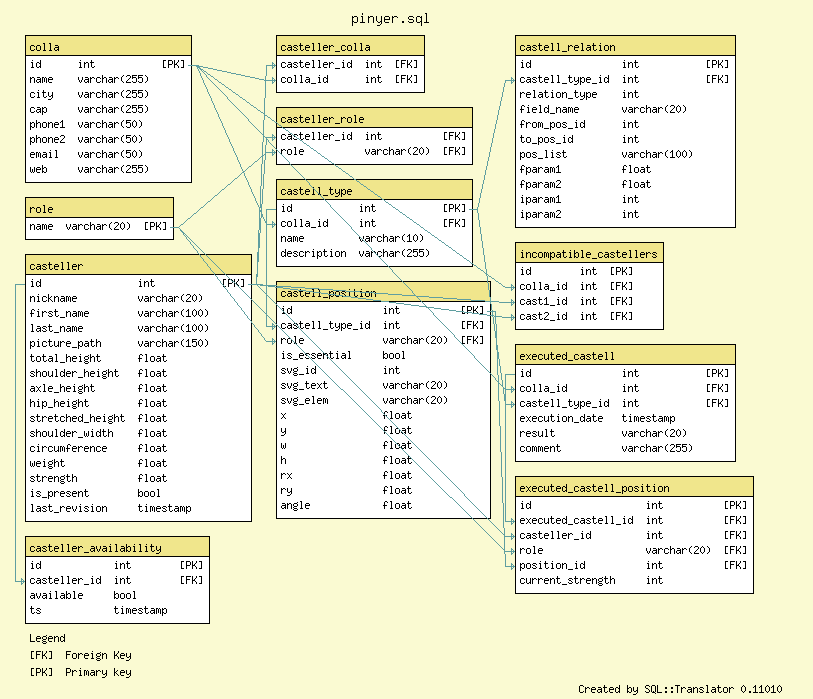
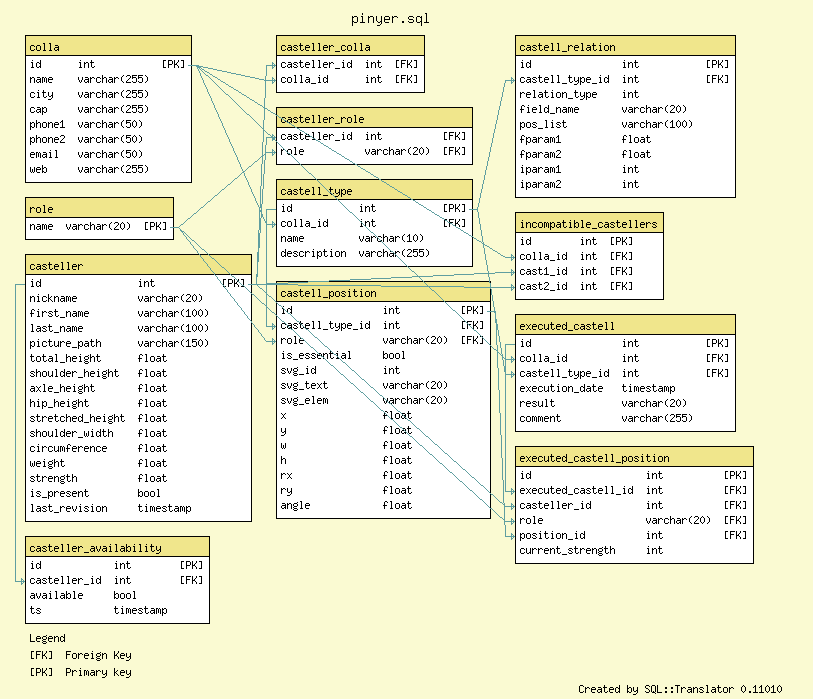
eliminated from_pos_id and to_pos_id

diff --git a/python/db_interaction.py b/python/db_interaction.py
@@ -14,10 +14,10 @@ def get_positions(db, castell_type_id):
     c.execute("""select p.id, role, role.name, is_essential, svg_id, svg_text, svg_elem, x, y, w, h, rx, ry, angle from castell_position p left join role on p.role=role.name where castell_type_id=%s""", (castell_type_id,))
     res = c.fetchall()
     for row in res:
-        ir0 = int(row[0])
         new_ans = dict(zip(('id', 'role', 'role_name', 'is_essential', 'svg_id', 'svg_text', 'svg_elem', 'x', 'y', 'w', 'h', 'rx', 'ry', 'angle'), row))
-        new_ans['id'] = ir0
-        position_data[ir0] = new_ans
+        for ind in ['id', 'svg_id']:
+            new_ans[ind] = int(new_ans[ind])
+        position_data[new_ans['id']] = new_ans
     return position_data
 
 def write_positions(db, castell_type_id, position_at):
@@ -118,7 +118,10 @@ def get_relations(db, castell_type_id):
     res = c.fetchall()
     ans = []
     for row in res:
-        ans.append(dict([('id', int(row[0])), ('castell_type_id', int(row[1])), ('relation_type', int(row[2])), ('field_name', row[3]), ('from_pos_id', row[4]), ('to_pos_id', row[5]), ('fparam1', row[6]), ('fparam2', row[7]), ('iparam2', row[8]), ('iparam2', row[9])]))
+        new_ans = dict(zip(('id', 'castell_type_id', 'relation_type', 'field_name', 'pos_list', 'fparam1', 'fparam2', 'iparam2', 'iparam2'), row))
+        for ind in ('id', 'castell_type_id', 'relation_type'):
+            new_ans[ind] = int(new_ans[ind])
+        ans.append(new_ans)
     return ans
 
 def write_relations(db, castell_type_id, relations):
@@ -128,15 +131,12 @@ def write_relations(db, castell_type_id, relations):
     c = db.cursor()
     vals = []
     for rel in relations:
-        vals.append((3, \
-                         rel['from_pos_id'], \
-                         rel['to_pos_id'], \
-                         rel['pos_list'],
+        vals.append((3,  rel['pos_list'], \
                          rel['relation_type'], \
                          rel['field_name'], 
                          rel['fparam1']))
-    query = """insert into castell_relation (castell_type_id, from_pos_id, to_pos_id, pos_list, relation_type, field_name, fparam1) 
-         values (%s, %s, %s, %s, %s, %s, %s)"""
+    query = """insert into castell_relation (castell_type_id, pos_list, relation_type, field_name, fparam1) 
+         values (%s, %s, %s, %s, %s)"""
     print query
     print vals
     c.executemany(query, vals)

diff --git a/python/ineqs.py b/python/ineqs.py
@@ -81,8 +81,10 @@ def make_relation_ineqs(relations, castellers_in_position, ineqs, aux_data):
     the position from_pos_id is also filled.
     """ 
     for rel in relations:
-        fpi = rel['from_pos_id']; tpi = rel['to_pos_id']
-        if fpi is not None and tpi is not None:
+        pos_list = rel['pos_list'].split('_')
+        fpi = int(pos_list[0])
+        if fpi is not None and len(pos_list)>=2:
+            tpi = int(pos_list[1])
             # we implement "pinyas have no holes" using binary indicator variables y_pos_id
             # that are 1 if the position pos_id is filled, and 0 otherwise
             # To simplify the system, we don't create these indicator variables explicitly,
@@ -120,7 +122,6 @@ def make_relation_ineqs(relations, castellers_in_position, ineqs, aux_data):
 
         elif rel['relation_type'] == 3: 
             # sum of values is at most fparam1 in absolute value
-            pos_list = rel['pos_list'].split('_')
             if len(pos_list) > 0:
                 label = rel['field_name'] + "_" + rel['pos_list'] + ': '
                 ineq_str_p = ''
@@ -148,9 +149,13 @@ def make_incompatibility_ineqs(db, colla_id, pos_of_casteller, relations, ineqs)
         positions.extend(pos_of_casteller[p1])
         positions = set(positions)
         for rel in relations:
-            if rel['relation_type'] == 1 and rel['from_pos_id'] in positions and rel['to_pos_id'] in positions:
-                ineqs.append(label + var(p0, rel['from_pos_id']) + " + " + var(p1, rel['to_pos_id']) + " <= 1")
-                ineqs.append(label + var(p0, rel['to_pos_id']) + " + " + var(p1, rel['from_pos_id']) + " <= 1")
+            pos_list = rel['pos_list'].split('_')
+            if rel['relation_type'] == 1 and len(pos_list)>=2:
+                fpi = pos_list[0]
+                tpi = pos_list[1]
+                if fpi in positions and tpi in positions:
+                    ineqs.append(label + var(p0, fpi) + " + " + var(p1, tpi) + " <= 1")
+                    ineqs.append(label + var(p0, tpi) + " + " + var(p1, fpi) + " <= 1")
                 
 
 def ip_ineqs(castellers_in_position, position_data, obj_val, ineqs, prescribed, castell_type_id, colla_id):
